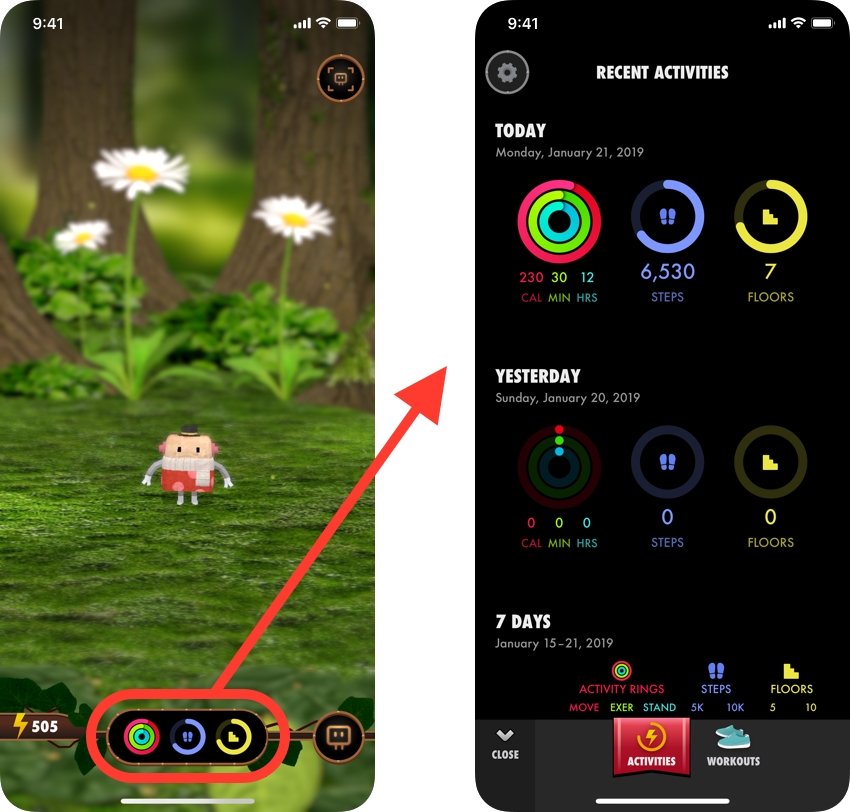
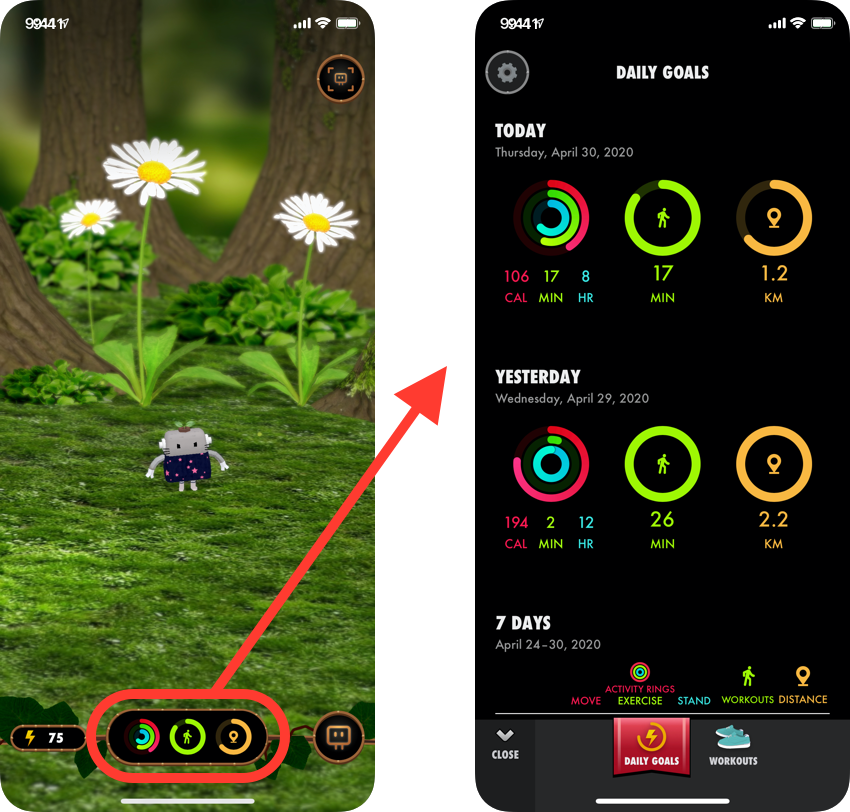
Hops: Update help pages

diff --git a/ja/hops/help02.html b/ja/hops/help02.html
@@ -28,40 +28,36 @@
 
 <p>デイリーゴールは、メイン画面の下部に当日の進捗が円グラフで表示されているほか、タップして「最近のアクティビティ」画面で、それぞれの数値や最近のデータなどを見ることも可能です。</p>
 
-<p><img src="../../hops/img/help_dailygoals.png" alt="メイン画面、最近のアクティビティ画面" width="425" height="auto" /></p>
+<p><img src="../../hops/img/help_dailygoals_ja.png" alt="メイン画面、デイリーゴール画面" width="425" height="auto" /></p>
 
-<h3>デイリーゴールの目標値</h3>
+<h3>デイリーゴールの設定</h3>
 
-<p>デイリーゴールの目標値は以下です。<br>
-すべてを完璧に達成するのは難しくても、毎日1エナジーでもゲットできるよう、ぜひトライしてみてください。</p>
+<p>デイリーゴールの種類とゴール値は、設定画面から変更できます。デイリーゴール画面の左上の歯車アイコンをタップ、設定画面の「デイリーゴール」をタップ、デイリーゴール設定画面へ。</p>
 
-<img src="../../hops/img/help_datasets.png" alt="各デイリーゴールの表示" width="420" height="auto" />
+<p><img src="../../hops/img/help_dailygoalssettings_ja.png" alt="デイリーゴール設定画面" width="480" height="auto" /></p>
 
-<h4>・Apple Watchをお使いの方</h4>
+<h4>デイリーゴールとして、以下のアクティビティから3つ選択できます。</h4>
 <ul>
-<li>アクティビティリング（ムーブ、エクササイズ・スタンド）・・・各1エナジー</li>
-<li>歩数（5000歩、10000歩）・・・各1エナジー</li>
-<li>上った階数（5階、10階）・・・各1エナジー</li>
+<li>アクティビティリング（Apple Watchご利用の方のみ）</li>
+<li>歩数</li>
+<li>上った階数</li>
+<li>ワークアウト（分数）</li>
+<li>距離</li>
+<li>スタンド（歩数ベース）</li>
 </ul>
 
-<h4>・iPhoneのみをお使いの方</h4>
-<ul>
-<li>歩数（5000歩、10000歩）・・・各1エナジー</li>
-<li>上った階数（5階、10階）・・・各1エナジー</li>
-<li><a href="help03.html">ワークアウト</a>（15分、30分） ・・・各1エナジー</li>
-</ul>
 
-<h4>・ボーナス</h4>
-<p>さらに、ゴールをすべて達成した日は、ボーナスも！</p>
+<h4>ゴール達成で取得できるエナジー</h4>
 <ul>
-<li>パーフェクトデイボーナス・・・3エナジー</li>
+<li>各ゴール達成につき1エナジー（アクティビティリングは各リングにつき1エナジー）</li>
+<li>選択したゴールをすべて達成でパーフェクトデイボーナス3エナジー</li>
 </ul>
 
 <h3>エナジーの受け取り</h3>
 
 <p>ゴール達成で生成されたエナジーは、翌日（0時30分以降）、配達人がメールボックスに届けにきます。</p>
-<p>エナジーは翌日いっぱい受取可能です。<br>
-メールボックスでのエナジー保管期間を伸ばしたい場合はアプリ内課金でメールボックスアップグレードをご検討ください（保管期間が7日間になります）。</p>
+<p>メールボックスではエナジー保管に期限があり、初期は翌日いっぱい受取可能です。<br>
+保管期間を伸ばしたい場合はアプリ内課金でメールボックスアップグレードをご検討ください（保管期間が7日間になります）。</p>
 
 <h3>関連トピック</h3>
 <p>・<a href="help03.html">ワークアウト時間の計測方法</a> (iPhoneの方向け)</p>

diff --git a/ja/index.html b/ja/index.html
@@ -169,8 +169,8 @@
 <!-- About -->
 <div class="row about" id="about">
 	<div class="box-line">
-		<h1>About</h1>
-		<p class="cp">Flask LLP（フラスク有限責任事業組合）は2013年8月8日に設立されました。 <br />東京で働くふたりの小さなチームです。</p>
+		<h1>About Flask</h1>
+		<p class="cp">Flask LLP（フラスク有限責任事業組合）はアプリ開発会社です。<br />2013年8月8日に設立されました。 <br />東京で働くふたりの小さなチームです。</p>
 		<div class="team clearfix">
 			<div class="person clearfix">
 				<div class="person-image"><img src="./../img/photo_ogawa.jpg" height="100" width="100" alt="" class="img-circle"></div>
@@ -196,7 +196,7 @@
 <div class="row contact" id="contact">
 	<div class="box-line">
 		<h1>Contact</h1>
-		<p>お気軽にお問い合わせください。<br />	（現在、新規案件の受付は停止しています）</p>
+		<p>お気軽にお問い合わせください。<br />	（現在、新規案件は受け付けていません）</p>
 		<p><a class="btn btn-contact" href="&#109;&#97;&#105;&#108;&#116;&#111;&#58;&#115;&#117;&#112;&#112;&#111;&#114;&#116;&#64;&#102;&#108;&#97;&#115;&#107;&#97;&#112;&#112;&#46;&#99;&#111;&#109;">&#115;&#117;&#112;&#112;&#111;&#114;&#116;&#64;&#102;&#108;&#97;&#115;&#107;&#97;&#112;&#112;&#46;&#99;&#111;&#109;</a></p>
 	</div>
 </div>

diff --git a/ja/hops/help00.html b/ja/hops/help00.html
@@ -42,11 +42,14 @@
 
 <p>以下のアクティビティからゴール計測されます。</p>
 
-<ul><li>歩数
-</li><li>上った階数
-</li><li>アクティビティリング（Apple Watchをお使いの場合）
-</li><li>ワークアウト（分数）（iPhoneのみをお使いの場合）
-</li></ul>
+<ul>
+<li>アクティビティリング（Apple Watchご利用の方のみ）</li>
+<li>歩数</li>
+<li>上った階数</li>
+<li>ワークアウト（分数）</li>
+<li>距離</li>
+<li>スタンド（歩数ベース）</li>
+</ul>
 
 <p>ワークアウトは自動計測ではないため、アプリ内のウォーキング計測の機能をお使いいただくか、Appleの「ヘルスケア」アプリと連携のある他社のアプリをお使いください。詳しくは「<a href="help03.html">ワークアウトの計測方法</a>」をご覧ください。</p>
 

diff --git a/index.html b/index.html
@@ -169,8 +169,8 @@
 <!-- About -->
 <div class="row about" id="about">
 	<div class="box-line">
-		<h1>About</h1>
-		<p class="cp">Flask LLP was founded in 2013. <br />We are a small team of two working in Tokyo, Japan.</p>
+		<h1>About Flask</h1>
+		<p class="cp">Flask LLP was founded in 2013.<br />We make apps for iPhone, iPad and Apple Watch<br />We are a small team of two working in Tokyo, Japan.</p>
 		<div class="team clearfix">
 			<div class="person clearfix">
 				<div class="person-image"><img src="./img/photo_ogawa.jpg" height="100" width="100" alt="" class="img-circle"></div>

diff --git a/ja/hops/index.html b/ja/hops/index.html
@@ -32,7 +32,7 @@
 			<p class="hero-copy">活動量計 × ゲーム！<br>美しい森を旅しながら、小さな木霊（こだま）Hops を育てよう！</p>
 		
 			<p class="hero-store">
-				<a href="https://itunes.apple.com/app/id1433717138?mt=8" target="itunes_store"><img src="../../img/btn_appstore.svg" alt="Download on the App Store"></a>
+				<a href="https://apps.apple.com/jp/app/hops/id1433717138" target="itunes_store"><img src="../../img/btn_appstore.svg" alt="Download on the App Store"></a>
 			</p>
 		</div>
 
